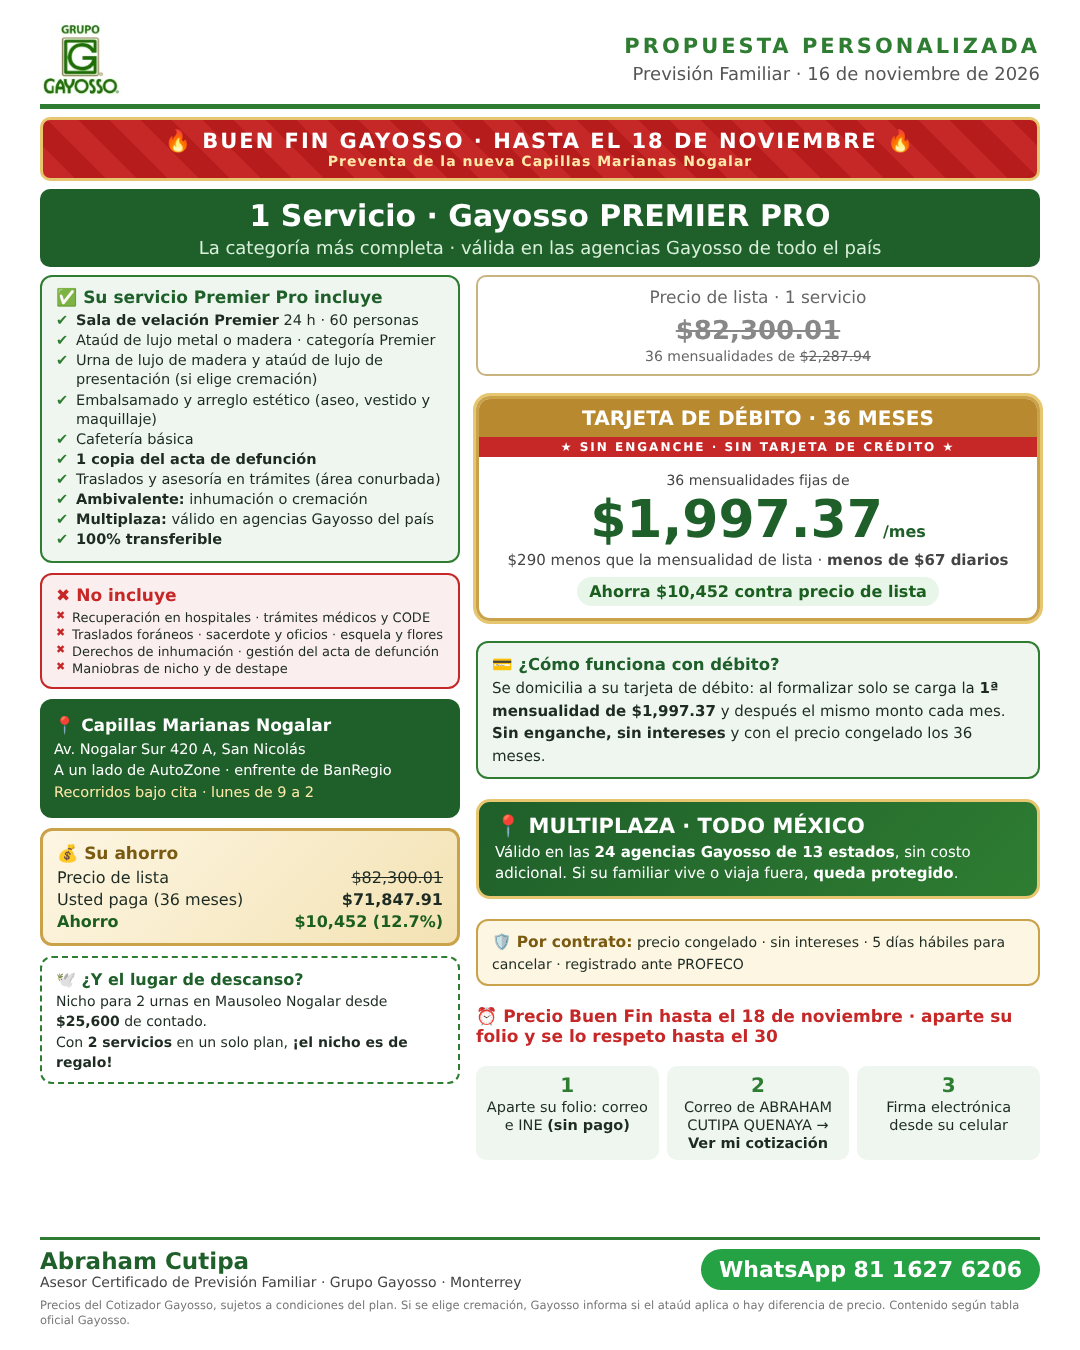
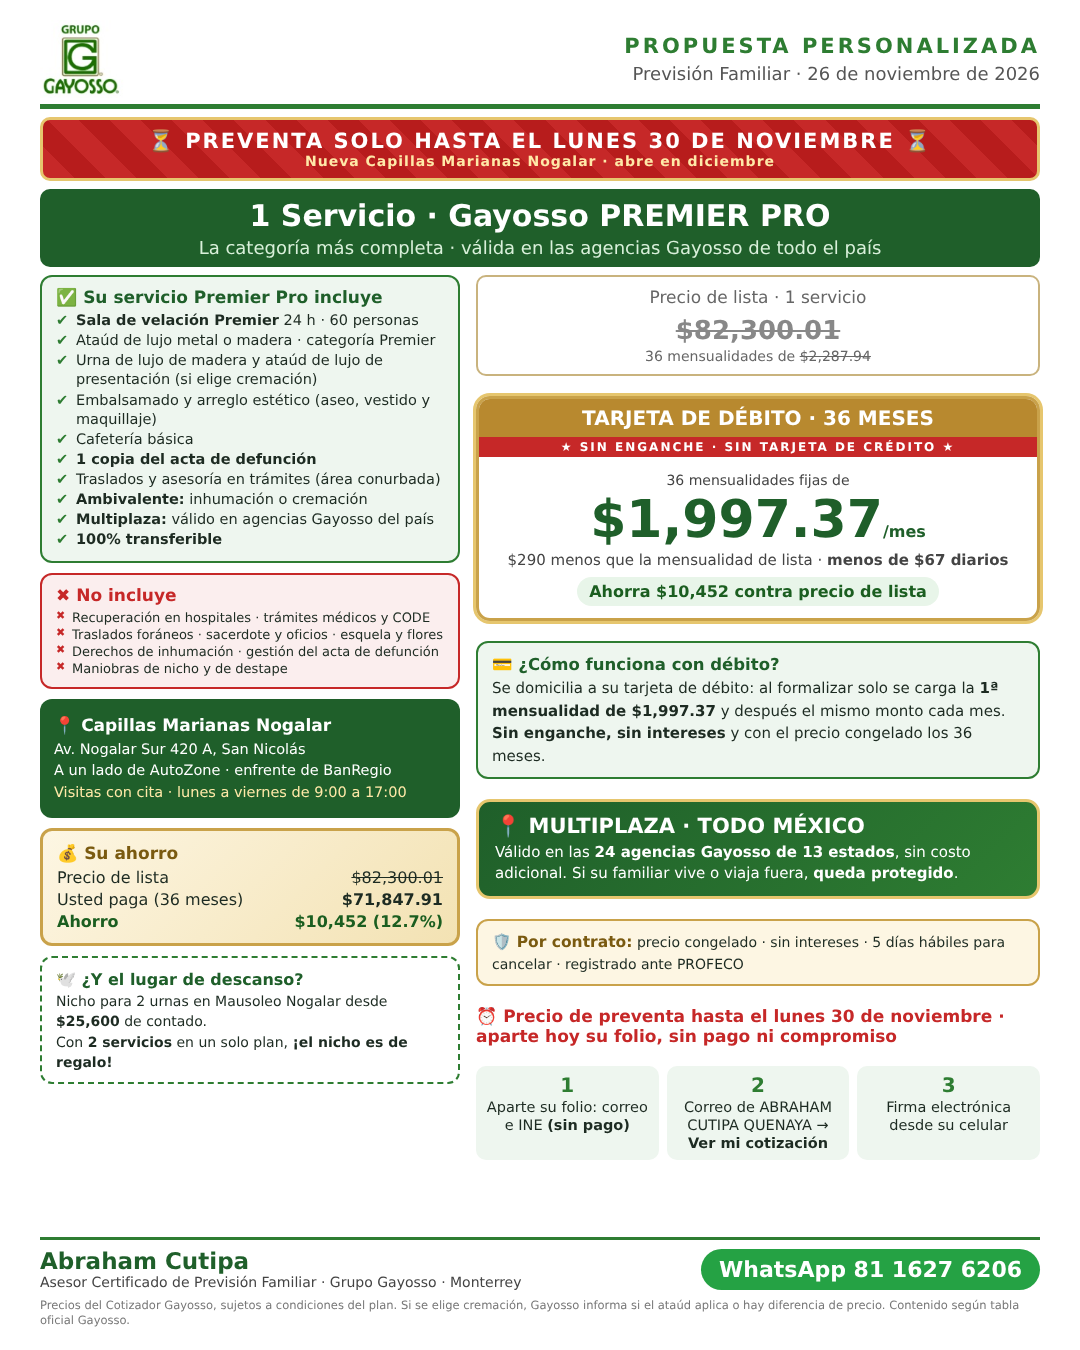
Premier 1 servicio débito Nogalar: vigencia 30-nov y horario de visitas
Claude-Session: https://claude.ai/code/session_01PccRGVGwaaPKDitcWkgoNs

diff --git a/propuesta/premier1_nogalar_debito.html b/propuesta/premier1_nogalar_debito.html
@@ -53,7 +53,7 @@ body{width:1080px;height:1350px;font-family:"DejaVu Sans",Arial,sans-serif;backg
 .fine{font-size:11.5px;color:#777;line-height:1.3}
 .rib{font-size:21px !important;background:repeating-linear-gradient(45deg,#c62828 0 22px,#b71c1c 22px 44px);color:#fff;text-align:center;font-weight:bold;font-size:21px;letter-spacing:2px;padding:9px;border-radius:10px;border:3px solid #e6c66e}.rib small{display:block;font-size:14px;letter-spacing:1px;color:#ffe9a8}.wrap{gap:8px;padding-top:20px}.top img{height:78px}.top{padding-bottom:6px}.side{width:420px;flex:none}.right{gap:20px}.op .b{padding:12px 6px}</style></head><body><div class="wrap">
 <div class="top"><img src="logo.jpg"><div class="r"><div class="k">PROPUESTA PERSONALIZADA</div><div class="d">Previsión Familiar · 14 de noviembre de 2026</div></div></div>
-<div class="rib">🔥 BUEN FIN GAYOSSO · HASTA EL 18 DE NOVIEMBRE 🔥<small>Preventa de la nueva Capillas Marianas Nogalar</small></div>
+<div class="rib">⏳ PREVENTA SOLO HASTA EL LUNES 30 DE NOVIEMBRE ⏳<small>Nueva Capillas Marianas Nogalar · abre en diciembre</small></div>
 <div class="band" style="padding:9px"><div class="t">1 Servicio · Gayosso PREMIER PRO</div><div class="s">La categoría más completa · válida en las agencias Gayosso de todo el país</div></div>
 <div class="main">
  <div class="side">
@@ -73,7 +73,7 @@ body{width:1080px;height:1350px;font-family:"DejaVu Sans",Arial,sans-serif;backg
    <li>Traslados foráneos · sacerdote y oficios · esquela y flores</li>
    <li>Derechos de inhumación · gestión del acta de defunción</li>
    <li>Maniobras de nicho y de destape</li></ul></div>
-  <div class="box" style="background:#1f5f2a;color:#fff;font-size:14.5px;line-height:1.5;padding:14px"><b style="font-size:17px">📍 Capillas Marianas Nogalar</b><br>Av. Nogalar Sur 420 A, San Nicolás<br>A un lado de AutoZone · enfrente de BanRegio<br><span style="color:#ffe9a8">Recorridos bajo cita · lunes de 9 a 2</span></div>
+  <div class="box" style="background:#1f5f2a;color:#fff;font-size:14.5px;line-height:1.5;padding:14px"><b style="font-size:17px">📍 Capillas Marianas Nogalar</b><br>Av. Nogalar Sur 420 A, San Nicolás<br>A un lado de AutoZone · enfrente de BanRegio<br><span style="color:#ffe9a8">Visitas con cita · lunes a viernes de 9:00 a 17:00</span></div>
   <div class="box" style="background:linear-gradient(135deg,#fdf6e3,#f3e2b3);border:3px solid #c9a24a;padding:12px 14px"><b style="color:#7a5a10;font-size:17px">💰 Su ahorro</b><div style="display:flex;justify-content:space-between;font-size:16px;margin-top:5px"><span>Precio de lista</span><s>$82,300.01</s></div><div style="display:flex;justify-content:space-between;font-size:16px;margin-top:3px"><span>Usted paga (36 meses)</span><b>$71,847.91</b></div><div style="display:flex;justify-content:space-between;font-size:16px;margin-top:3px;color:#1b5e20"><span><b>Ahorro</b></span><b>$10,452 (12.7%)</b></div></div>
   <div class="box" style="background:#fff;border:2px dashed #2e7d32;font-size:14px;line-height:1.45"><b style="color:#1f5f2a;font-size:16px">🕊 ¿Y el lugar de descanso?</b><br>Nicho para 2 urnas en Mausoleo Nogalar desde <b>$25,600</b> de contado.<br>Con <b>2 servicios</b> en un solo plan, <b>¡el nicho es de regalo!</b></div>
  </div>
@@ -85,7 +85,7 @@ body{width:1080px;height:1350px;font-family:"DejaVu Sans",Arial,sans-serif;backg
   <div class="box" style="background:#eef6ef;border:2px solid #2e7d32;font-size:15px;line-height:1.5"><b style="color:#1f5f2a;font-size:16.5px">💳 ¿Cómo funciona con débito?</b><br>Se domicilia a su tarjeta de débito: al formalizar solo se carga la <b>1ª mensualidad de $1,997.37</b> y después el mismo monto cada mes. <b>Sin enganche, sin intereses</b> y con el precio congelado los 36 meses.</div>
     <div class="nicho"><div class="t">📍 MULTIPLAZA · TODO MÉXICO</div><div class="s">Válido en las <b>24 agencias Gayosso de 13 estados</b>, sin costo adicional. Si su familiar vive o viaja fuera, <b>queda protegido</b>.</div></div>
   <div class="box" style="background:#fdf6e3;border:2px solid #c9a24a;font-size:14px;line-height:1.45"><b style="color:#7a5a10;font-size:15.5px">🛡 Por contrato:</b> precio congelado · sin intereses · 5 días hábiles para cancelar · registrado ante PROFECO</div>
-  <div class="vig">⏰ Precio Buen Fin hasta el 18 de noviembre · aparte su folio y se lo respeto hasta el 30</div>
+  <div class="vig">⏰ Precio de preventa hasta el lunes 30 de noviembre · aparte hoy su folio, sin pago ni compromiso</div>
   <div class="steps"><div class="st"><b class="n">1</b>Aparte su folio: correo e INE <b>(sin pago)</b></div><div class="st"><b class="n">2</b>Correo de ABRAHAM CUTIPA QUENAYA → <b>Ver mi cotización</b></div><div class="st"><b class="n">3</b>Firma electrónica desde su celular</div></div>
  </div>
 </div>
